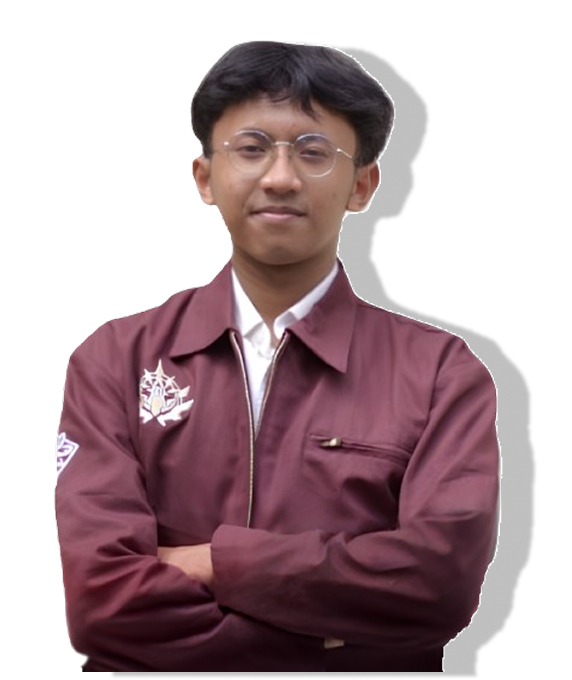
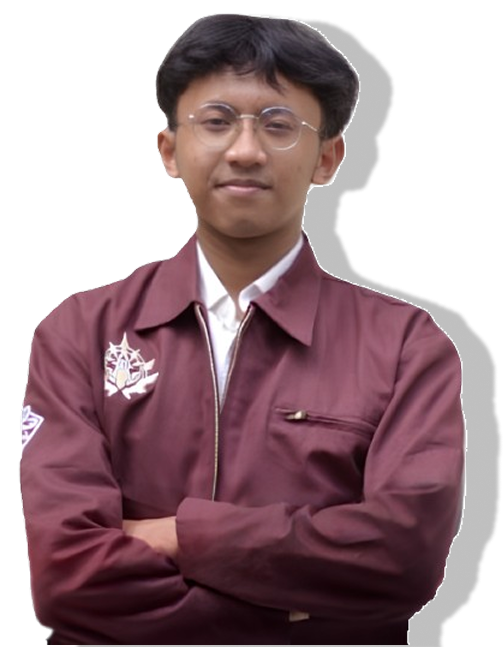
melengkapi materi keinformatikaan

diff --git a/pages/materi-infor.html b/pages/materi-infor.html
@@ -25,7 +25,7 @@
         <nav class="nav-links">
             <a href="#home">Home</a>
             <a href="#materi">Materi</a>
-            <a href="#about" >About</a>
+            <a href="#about">About</a>
             <a href="#profil">Profil</a>
         </nav>
 
@@ -34,10 +34,10 @@
     </header>
 
     <!-- ========== Hero Section ========== -->
-    <section class="hero" id="home" style="background-image: url('/asset/img/hero-sg.png');">
+    <section class="hero" id="home" style="background-image: url('/asset/img/hero-infor.png');">
         <div class="hero-content">
-            <h1>STADIUM<br>GENERALE</h1>
-            <h3>BY BU DR. DIAN SA'ADILAH MAYLAWATI, S.KOM., M.T., PH.D</h3>
+            <h1>KEINFORMATIKAAN</h1>
+            <h3>BY KANG FATIH MAULANA</h3>
         </div>
         <a href="#profil-budian" class="btn">Profil Pemateri</a>
     </section>
@@ -45,18 +45,16 @@
     <!-- ========== Profil Ketua Jurusan ========== -->
     <section class="profil-container" id="profil-budian">
         <div class="foto">
-            <img src="../asset/img/profil-budian2.svg" alt="Foto Dr. Dian Sa’dillah Maylawati">
+            <img src="../asset/img/profil-fatih.png" alt="Foto Dr. Dian Sa’dillah Maylawati">
         </div>
 
         <div class="info" style="margin-top: 100px;">
-            <h1>Dr. Dian Sa'dillah Maylawati, S.Kom., M.T., Ph.D</h1>
-            <h3 class="jabatan">KETUA JURUSAN TEKNIK INFORMATIKA</h3>
+            <h1>KANG FATIH MAULANA</h1>
+            <h3 class="jabatan">PERWAKILAN BIDANG NALAR(HIMATIF)</h3>
             <div class="pendidikan">
                 <h2>Pendidikan</h2>
                 <ul>
-                    <li>S1 Ilmu Komputer - Universitas Pendidikan Indonesia</li>
-                    <li>S2 Informatika - Institut Teknologi Bandung</li>
-                    <li>S3 Doctor of Philosophy - Universitas Teknikal Malaysia Malaka</li>
+                    <li>S1 Teknik Informatika - UIN Sunan Gunung Djati Bandung(NOW)</li>
                 </ul>
             </div>
         </div>
@@ -70,19 +68,19 @@
         </div>
 
         <div class="content-box">
-            <img src="../asset/img/illust-budian.png" alt="Ilustrasi Pemateri" class="character">
+            <img src="../asset/img/illust-fatih.png" alt="Ilustrasi Pemateri" class="character">
 
             <div class="box top-left">
-                Visi, Profil Lulusan, dan Sistem Penilaian
+                “Your own path” Jalanmu Sendiri
             </div>
             <div class="box middle-left">
-                Learning Path hingga Sarjana Teknik Informatika (S.T.)
+                Informatika itu lulusan
             </div>
             <div class="box top-right">
-                Hak, Kewajiban, dan Aturan Akademik Mahasiswa
+                Tantangan kalian sebagai maba
             </div>
             <div class="box middle-right">
-                Fasilitas, Layanan, dan Mekanisme Tugas Akhir
+                Ikigai 「生き甲斐」 Nilai/Tujuan Hidup
             </div>
         </div>
     </section>
@@ -91,99 +89,75 @@
     <section class="materi" id="rangkuman">
         <div class="materi-container">
             <section class="section">
-                <h2 class="title outlined">Visi, Profil Lulusan, dan Sistem Penilaian</h2>
-                <br>
-                <h3>Visi</h3>
-                <p>
-                    “Menjadi Jurusan/ Prodi Teknik Informatika yang unggul, kompetitif, dan inovatif berbasis rahmatan
-                    lil ‘alamin dalam bidang kecerdasan artifisial dan distributed computing Asia Tenggara pada tahun
-                    2029”
-                </p>
-                <br>
-
-                <h3>Profil Lulusan</h3>
-                <ul>
-                    <li><strong>Ahli Informatika</strong> — Menguasai pengetahuan di bidang Kecerdasan Artifisial (AI)
-                        dan Distributed Computing untuk menjawab kebutuhan industri dan masyarakat.</li>
-                    <li><strong>Problem Solver</strong> — Mampu merancang, mengimplementasikan, dan mengevaluasi solusi
-                        berbasis informatika yang tepat guna.</li>
-                    <li><strong>Komunikatif & Kolaboratif</strong> — Memiliki keterampilan komunikasi, kepemimpinan,
-                        kerjasama tim, jejaring profesional, serta jiwa kewirausahaan.</li>
-                    <li><strong>Pribadi Berkualitas</strong> — Berakhlak karimah, kreatif, dan inovatif dalam menghadapi
-                        perkembangan teknologi dan tantangan masa depan.</li>
-                </ul>
+                <h2 class="title outlined">MELIHAT JURUSAN KITA</h2>
                 <br>
                 <p>
-                    Dari visi dan profil lulusan tersebut, kurikulum disusun menjadi
-                    <strong>9 Capaian Pembelajaran Lulusan (CPL)</strong>,
-                    yang didistribusikan ke dalam <strong>63 mata kuliah</strong>
-                    dengan total beban studi <strong>197 SKS</strong>.
+                    Pertama kang fatih membuka materi dengan quotes “Your Own Path” di sini kang fatih membantu kita
+                    dalam menentukan tujuan atau output setelah kita kuliah di jurusan teknik informatika.<br>
+                    Kang fatih juga menambahkan quotes “<b>The best way to predict your future is to create it</b>” -
+                    Peter Drucker.
                 </p>
                 <br>
-
-                <h3>Sistem Penilaian</h3>
-                <p>
-                    Sistem penilaian menggunakan pendekatan <strong>Outcome-Based Education (OBE)</strong>
-                    yang berorientasi pada ketercapaian skill dan kompetensi.
-                    Standar kelulusan ditetapkan dengan batas minimal
-                    <strong>60</strong> untuk capaian pembelajaran mata kuliah (CPMK).
-                </p>
             </section>
 
             <div class="section">
-                <h2 class="title outlined">Hak, Kewajiban, dan Aturan Akademik Mahasiswa</h2>
+                <h2 class="title outlined">INFORMATIKA ITU LUAS</h2>
                 <ul>
-                    <li>Pembimbing akademik diumumkan melalui akun <em>Salam</em>.</li>
-                    <li>Cuti kuliah maksimal <strong>2 kali</strong> selama masa studi.</li>
-                    <li>Batas hak studi adalah <strong>14 semester</strong>.</li>
-                    <li>Mahasiswa akan dikenakan sanksi DO apabila IPS <strong>
-                            < 2.0</strong> selama dua semester berturut-turut.</li>
-                </ul>
+                    <p>Yap, informatika itu luas, isinya bukan cuman ngoding, ngoding, 99x. Di informatika itu ada
+                        banyak bidang dan keahliannya, seperti:</p>
+                    <ul>
+                        <li>Software engineering</li>
+                        <p>Orang yang merancang, membuat, menguji, dan memelihara perangkat lunak (software) dengan
+                            menggunakan prinsip-prinsip rekayasa (engineering).</p>
+                        <li>AI & Data Scientist</li>
+                        <p>Orang yang mengolah data menjadi insight & membuat model kecerdasan buatan.</p>
+                        <li>Web Development</li>
+                        <p>Proses membangun dan mengelola website atau aplikasi berbasis web agar bisa diakses melalui
+                            internet.</p>
+                        <li>Network and Cloud</li>
+                        <p>Teknologi yang menghubungkan perangkat (komputer, server, HP) agar bisa saling bertukar data.
+                            Sementara cloud adalah tempat penyimpanan database.</p>
+                        <li>Blockchain & Cryptography</li>
+                        <p>Teknologi desentralisasi untuk mencatat transaksi digital secara aman, transparan.</p>
+                    </ul>
             </div>
 
             <div class="section">
-                <h2 class="title outlined">Learning Path hingga Sarjana (S.T.)</h2>
+                <h2 class="title outlined">TANTANGAN KALIAN SEBAGAI MABA</h2>
                 <ul>
-                    <li>Menyelesaikan seluruh mata kuliah (minimal <strong>143 SKS</strong>, tidak termasuk TA).</li>
-                    <li>Melaksanakan <strong>Kerja Praktik/Magang</strong> di industri atau instansi terkait.</li>
-                    <li>Menyusun dan mempresentasikan <strong>Seminar Proposal Tugas Akhir</strong>.</li>
-                    <li>Menyelesaikan syarat non-akademik: <strong>Tahfidz minimal 1 Juz</strong> dan Ujian Komprehensif
-                        (algoritma & keagamaan).</li>
-                    <li>Mengikuti <strong>Kolokium</strong> atau bimbingan rutin bersama dosen pembimbing.</li>
-                    <li>Menjalani <strong>Sidang Tugas Akhir (Munaqasyah)</strong> sebagai tahap akhir.</li>
+                    <li>Adaptasi dengan dunia kampus</li>
+                    <li>Banyak pilihan bisa bikin kalian bingung</li>
+                    <li>Tekanan sosial: Membandingkan diri sendiri dengan orang lain</li>
+                    <li>Distraksi dan arah yang belum jelas</li>
+                    </ul>
+                    <p>“<b>'t let the noise of others opinions drown out your own inner voice</b>” - Steve Jobs</p>
+                    <p>“<b>He who has a why to live can bear almost any how</b>” - Friedrich Nietzsche</p>
                 </ul>
                 </ul>
             </div>
 
 
             <section class="section">
-                <h2 class="title outlined">Fasilitas, Layanan, dan Mekanisme Tugas Akhir</h2>
+                <h2 class="title outlined">PENTINGNYA MENENTUKAN TUJUAN</h2>
                 <ul>
-                    <li>
-                        <strong>Petunjuk Teknis</strong> tersedia melalui kanal
-                        <em>YouTube Teknik Informatika</em>.
-                        Call Center: <strong>082119893938</strong> (08.00–16.00 WIB).
-                    </li>
-                    <li>
-                        <strong>Surat-menyurat</strong> dilakukan melalui halaman fakultas:
-                        linktr.ee/muinnusa → Layanan Jurusan.
-                    </li>
-                    <li>
-                        <strong>Fasilitas</strong> yang dapat digunakan mahasiswa:
-                        <ul>
-                            <li>Lab Pendidikan (A-1, DC-1)</li>
-                            <li>Lab Riset (A-2, DC-2) untuk mahasiswa akhir</li>
-                            <li>Ruang Diskusi 4.07</li>
-                            <li>Podcast Room 14.3</li>
-                        </ul>
-                    </li>
-                    <li>
-                        <strong>RAK Digital</strong> dapat diakses di
-                        <a href="https://elibrary.uinsgd.ac.id/" target="_blank">e-library.uinsgd.ac.id</a>.
-                        <br>
-                        <small>Termasuk pedoman kode etik dan tata tertib mahasiswa: etika akademik, pergaulan &
-                            penampilan, jenis pelanggaran, sanksi, serta pelaksanaan disiplin.</small>
-                    </li>
+                    <li>Tanpa tujuan, kita seperti kapal tanpa arah</li>
+      <li>Tujuan = Kompas biar tau jalan pas kuliah</li>
+      <li>Sederhana aja dulu gapapa</li>
+    </ul>
+    <p>“Ikigai (生き甲斐)” Iki artinya hidup dan Gai artinya Nilai/manfaat<br>Jadi, Ikigai artinya Nilai Hidup/Tujuan Hidup.</p>
+    <ul>
+      <li>Apa yang kamu cintai (What you love)?</li>
+      <li>Apa yang kamu kuasai (What you are good at)?</li>
+      <li>Apa yang dunia butuhkan (What the world needs)?</li>
+      <li>Apa yang bisa menghasilkan uang (What you can be paid for)?</li>
+    </ul>
+    <p> S.M.A.R.T goals model
+        <br>Spesific              → Jalur yang kalian pilih harus jelas
+        <br>Measurable      → Tujuan kalian bisa diukur
+        <br>Achievable       → Tujuan yang realistis
+        <br>Relevant           → Tujuan/target kalian yang sesuai jurusan
+        <br>Time-bound     → Ada target waktunya
+    </p>
                 </ul>
             </section>
         </div>
@@ -194,7 +168,7 @@
         <h1>KELOMPOK 5 - RUBY</h1>
         <p class="pembina">Pembina: Kang Dimas Rizqia Hidayat</p>
 
-         <div class="konten">
+        <div class="konten">
             <div class="kolom">
                 <p>Muhamad Fahd Aufa Akbar (E1)</p>
                 <p>Saeful Risqi (E2)</p>
